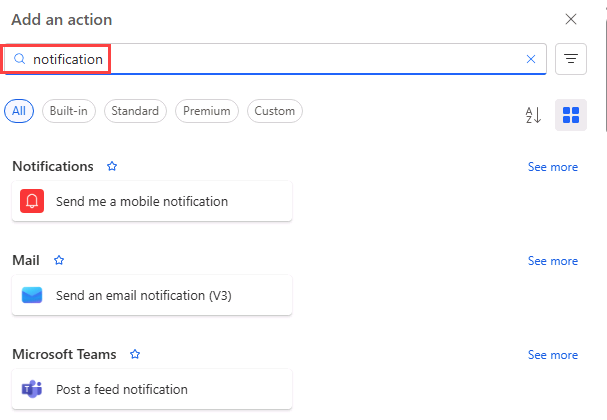
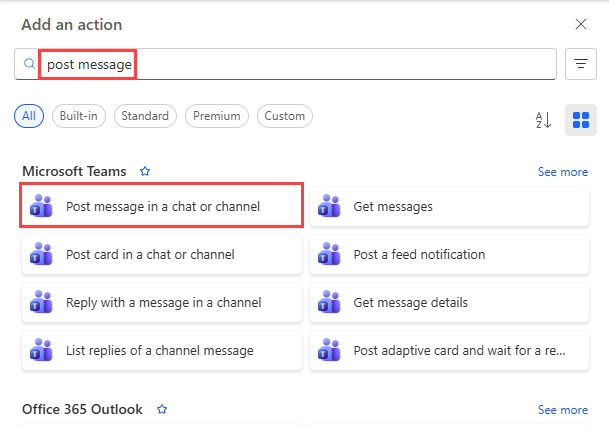
Fix issue with Post a feed notification action

diff --git a/Instructions/Labs/LAB[PL-7002]_M01L01_Create_flows.md b/Instructions/Labs/LAB[PL-7002]_M01L01_Create_flows.md
@@ -204,29 +204,27 @@ In this lab you will create cloud flows.
 
 1. If prompted, select **Allow** for **See text and images copied to clipboard**.
 
-1. Enter `notification` in search.
+1. Enter `post message` in search.
 
     ![Screenshot of action search.](../media/search-action.png)
 
-1. Select **Post a feed notification** under **Microsoft Teams**.
+1. Select **Post message in a chat or channel** under **Microsoft Teams**.
 
 1. Select **Sign in**.
 
 1. Use your tenant credentials.
 
-1. Select **Team** for **Notification Type**.
+1. Select **Flow bot** for **Post as**.
+
+1. Select **Chat with Flow bot** for **Post in**.
 
 1. Enter your tenant user id for **Recipient**.
 
-1. Enter `/` in the **Notification Text** field and select **Insert dynamic content**.
-
-    ![Screenshot of dynamic content.](../media/flow-dynamic-content.png)
+1. Enter `/` in the **Message** field and select **Insert dynamic content**.
 
 1. Select **Subject**.
 
-1. Select **Contoso** for **Team**.
-
-1. Select **General** for **Channel**.
+    ![Screenshot of dynamic content.](../media/flow-dynamic-content.png)
 
 1. Select **Save**.
 
